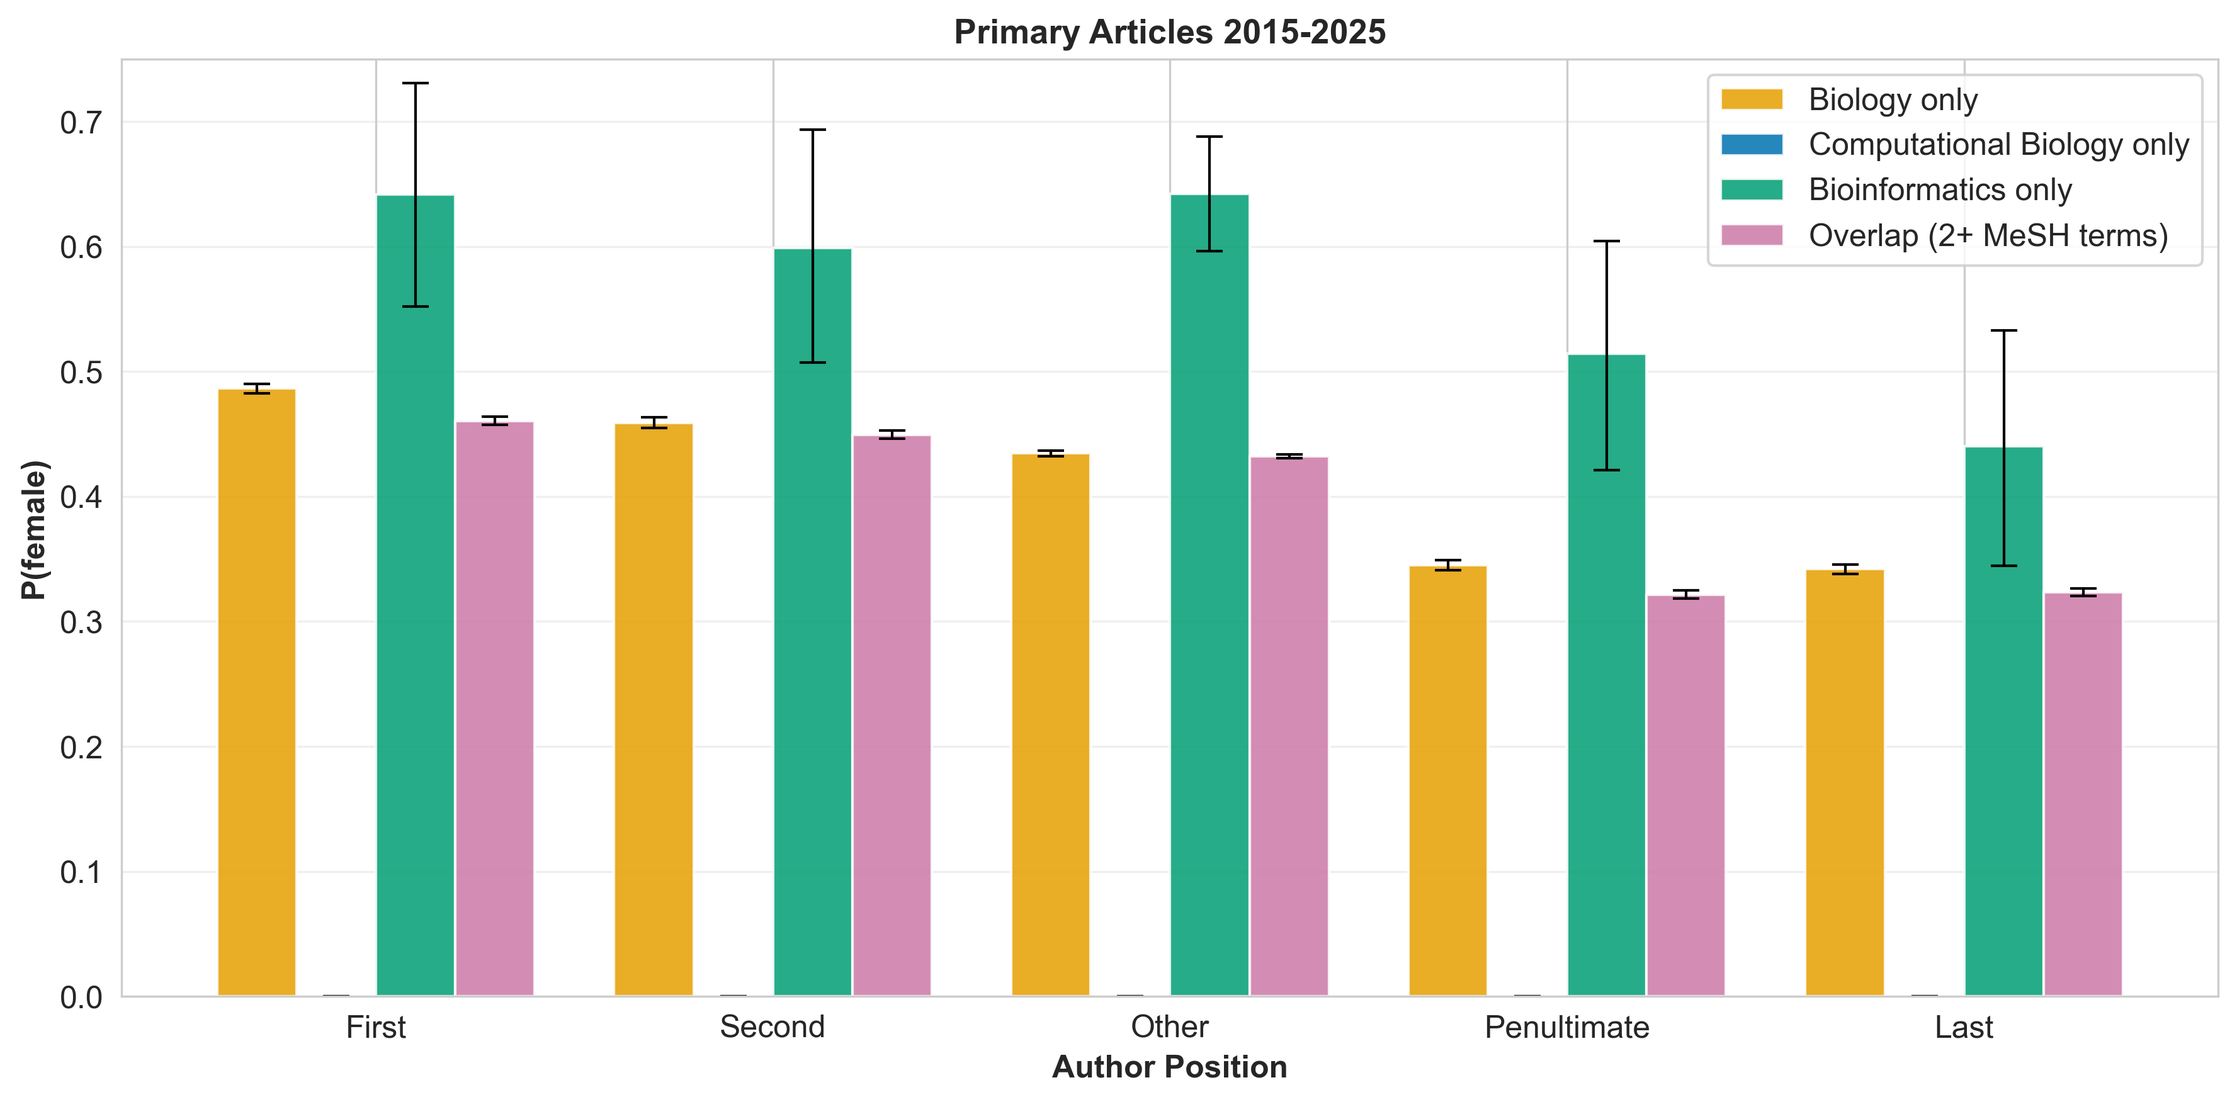
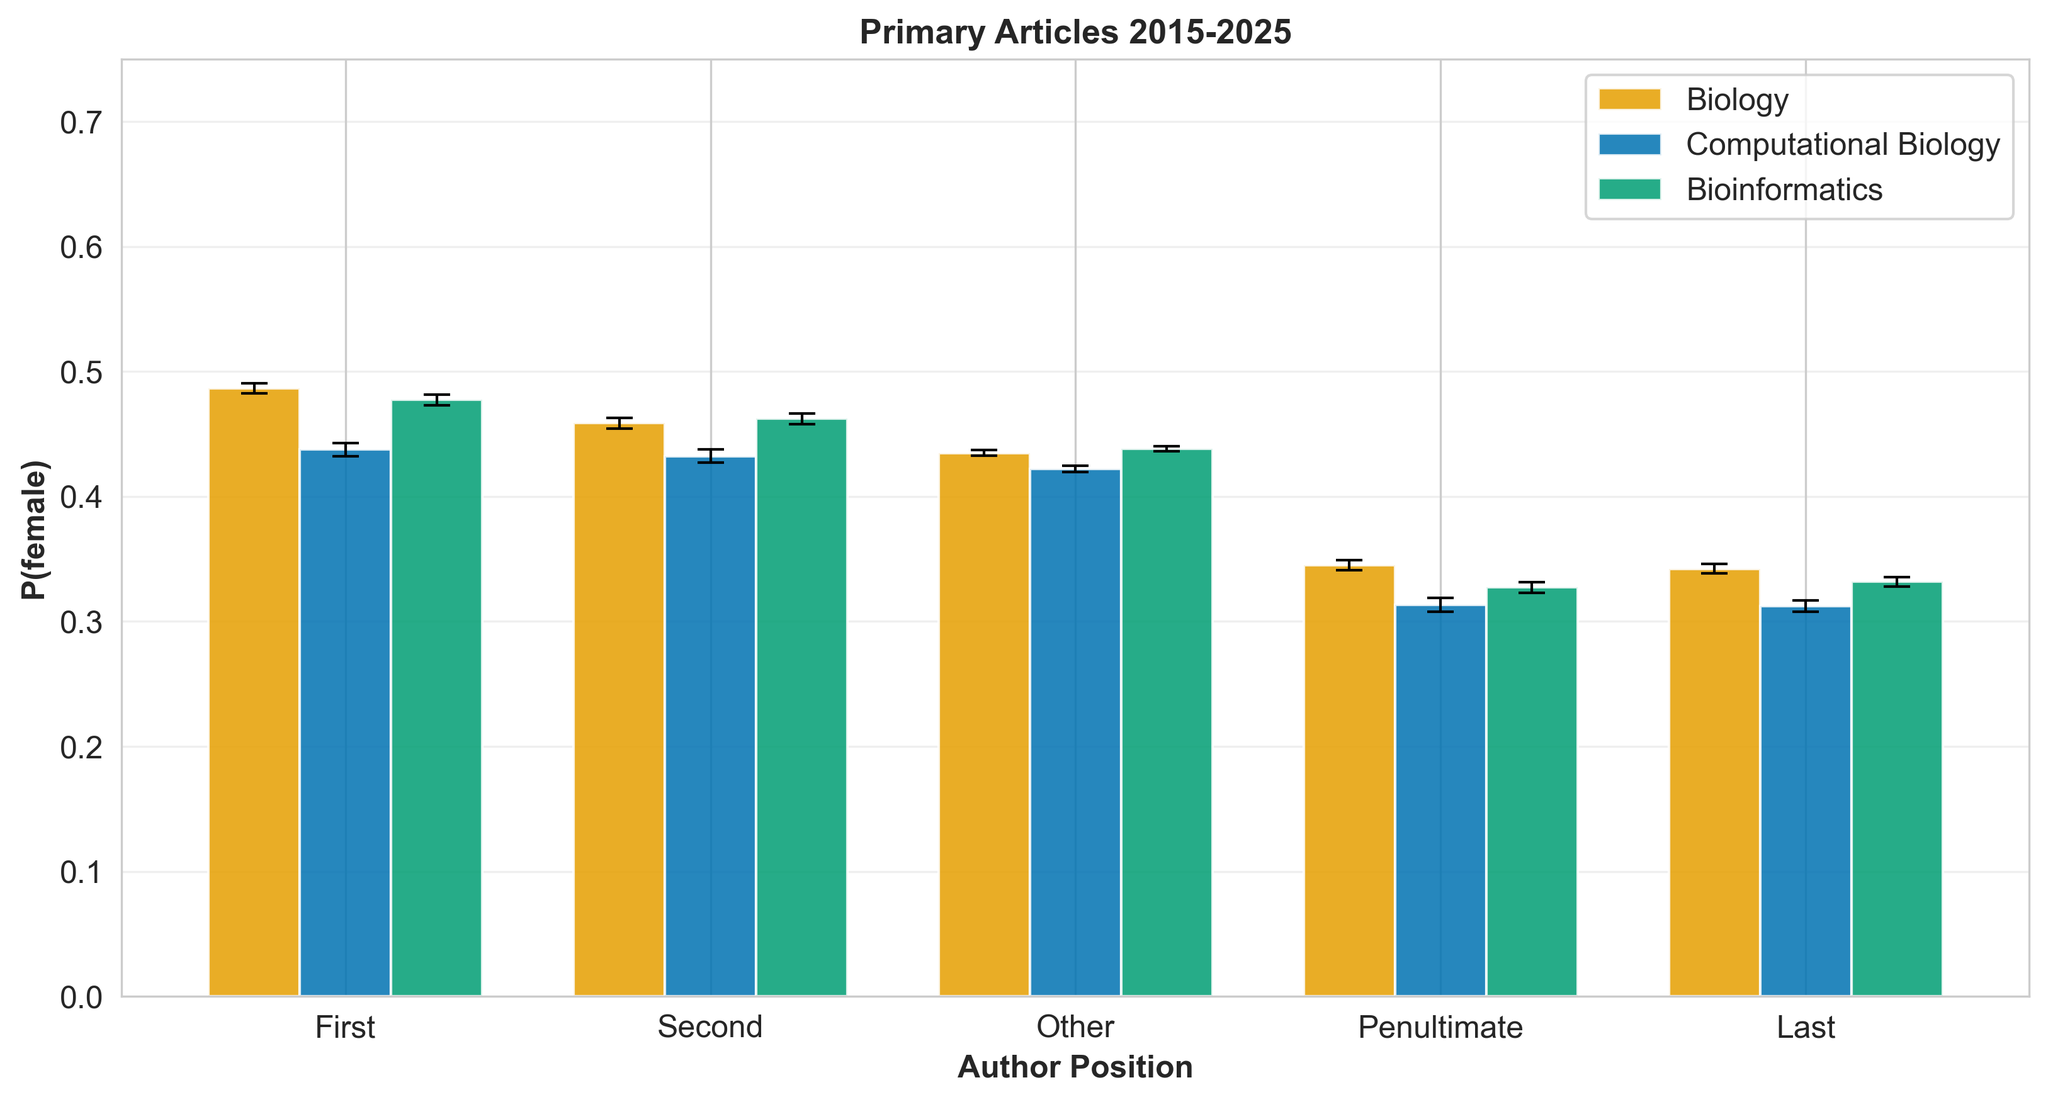
Restructure blog post for clarity: remove overlap stratifications, focus on three main categories
Changes:
- Update Figure 1A to show only three categories (Biology, Computational Biology,
  Bioinformatics), removing the Overlap bars
- Adjust bar positioning and sizing for cleaner three-category layout
- Simplify key observations to focus on the three main search terms
- Remove detailed 'Search Overlap Reveals Dataset Structure' section with separate
  stratification table
- Add brief methodological note in 'How I Did This' section explaining that the three
  search terms have overlap (CompBio is 100% subset of Biology) but analyses present
  results for each term independently
- Simplify overall narrative to be less bloated while maintaining transparency

This follows Option 2: One Clean Pass Through - presenting everything through the lens
of three main categories with overlap explained as methodological context.

diff --git a/publications/bwib_deep_dive/figures/figure_1a_position_breakdown.py b/publications/bwib_deep_dive/figures/figure_1a_position_breakdown.py
@@ -24,10 +24,10 @@ from .utils import get_author_data, OUTPUT_DIR, COLORS
 def generate_figure_1a(data):
     """
     Generate Fig 1A: Mean P(female) by author position.
-    Compares Biology, Computational Biology, Bioinformatics, and Overlap (2+ searches).
+    Compares Biology, Computational Biology, and Bioinformatics.
 
     Args:
-        data: DataFrame from get_author_data(show_overlap=True) with columns:
+        data: DataFrame from get_author_data() with columns:
               name, p_female, position, dataset, year, pmid
 
     Returns:
@@ -45,13 +45,11 @@ def generate_figure_1a(data):
     bio_data = {}
     comp_data = {}
     bioinf_data = {}
-    overlap_data = {}
 
     for pos in positions:
         bio_row = results[(results['dataset'] == 'Biology') & (results['position'] == pos)]
         comp_row = results[(results['dataset'] == 'Computational Biology') & (results['position'] == pos)]
         bioinf_row = results[(results['dataset'] == 'Bioinformatics') & (results['position'] == pos)]
-        overlap_row = results[(results['dataset'] == 'Overlap') & (results['position'] == pos)]
 
         if not bio_row.empty:
             bio_data[pos] = {
@@ -74,18 +72,11 @@ def generate_figure_1a(data):
                 'upper': bioinf_row['ci_upper'].values[0]
             }
 
-        if not overlap_row.empty:
-            overlap_data[pos] = {
-                'mean': overlap_row['mean'].values[0],
-                'lower': overlap_row['ci_lower'].values[0],
-                'upper': overlap_row['ci_upper'].values[0]
-            }
-
     # Create figure
-    fig, ax = plt.subplots(figsize=(12, 6))
+    fig, ax = plt.subplots(figsize=(11, 6))
 
     x = np.arange(len(positions))
-    width = 0.20  # Width for four bars per position
+    width = 0.25  # Width for three bars per position
 
     bio_means = [bio_data[p]['mean'] if p in bio_data else 0 for p in positions]
     bio_errors_lower = [bio_data[p]['mean'] - bio_data[p]['lower'] if p in bio_data else 0 for p in positions]
@@ -96,23 +87,17 @@ def generate_figure_1a(data):
     bioinf_means = [bioinf_data[p]['mean'] if p in bioinf_data else 0 for p in positions]
     bioinf_errors_lower = [bioinf_data[p]['mean'] - bioinf_data[p]['lower'] if p in bioinf_data else 0 for p in positions]
     bioinf_errors_upper = [bioinf_data[p]['upper'] - bioinf_data[p]['mean'] if p in bioinf_data else 0 for p in positions]
-    overlap_means = [overlap_data[p]['mean'] if p in overlap_data else 0 for p in positions]
-    overlap_errors_lower = [overlap_data[p]['mean'] - overlap_data[p]['lower'] if p in overlap_data else 0 for p in positions]
-    overlap_errors_upper = [overlap_data[p]['upper'] - overlap_data[p]['mean'] if p in overlap_data else 0 for p in positions]
 
     bio_errs = [bio_errors_lower, bio_errors_upper]
     comp_errs = [comp_errors_lower, comp_errors_upper]
     bioinf_errs = [bioinf_errors_lower, bioinf_errors_upper]
-    overlap_errs = [overlap_errors_lower, overlap_errors_upper]
 
-    ax.bar(x - 1.5*width, bio_means, width, label='Biology only', color=COLORS['Biology'], alpha=0.85,
+    ax.bar(x - width, bio_means, width, label='Biology', color=COLORS['Biology'], alpha=0.85,
            yerr=bio_errs, capsize=5, error_kw={'elinewidth': 1})
-    ax.bar(x - 0.5*width, comp_means, width, label='Computational Biology only', color=COLORS['Computational Biology'], alpha=0.85,
+    ax.bar(x, comp_means, width, label='Computational Biology', color=COLORS['Computational Biology'], alpha=0.85,
            yerr=comp_errs, capsize=5, error_kw={'elinewidth': 1})
-    ax.bar(x + 0.5*width, bioinf_means, width, label='Bioinformatics only', color=COLORS['Bioinformatics'], alpha=0.85,
+    ax.bar(x + width, bioinf_means, width, label='Bioinformatics', color=COLORS['Bioinformatics'], alpha=0.85,
            yerr=bioinf_errs, capsize=5, error_kw={'elinewidth': 1})
-    ax.bar(x + 1.5*width, overlap_means, width, label='Overlap (2+ MeSH terms)', color=COLORS['Overlap'], alpha=0.85,
-           yerr=overlap_errs, capsize=5, error_kw={'elinewidth': 1})
 
     ax.set_xlabel('Author Position', fontsize=12, fontweight='bold')
     ax.set_ylabel('P(female)', fontsize=12, fontweight='bold')
@@ -139,7 +124,7 @@ def main():
     print("=" * 70 + "\n")
 
     print("Loading author data from database...")
-    data = get_author_data(start_year=2015, end_year=2025, show_overlap=True)
+    data = get_author_data(start_year=2015, end_year=2025)
     print(f"✓ Loaded {len(data):,} author records\n")
 
     print("GENERATING FIGURE")

diff --git a/publications/bwib_deep_dive/BWIB_Deep_Dive_Blog_Post.md b/publications/bwib_deep_dive/BWIB_Deep_Dive_Blog_Post.md
@@ -38,7 +38,7 @@ To assess progress, I replicated the Bonham & Stefan analysis, using their same 
 
 ![Fig1A: P(female) by author position](./Fig1A_position_breakdown.png)
 
-This figure directly replicates Bonham & Stefan's Fig 1A, but expands the analysis to include three PubMed search terms: **Biology**, **Computational Biology**, and **Bioinformatics**. Additionally, it introduces a fourth category, **Overlap**, which identifies papers appearing in multiple searches, revealing the dataset structure and avoiding double-counting when papers match multiple search terms.
+This figure directly replicates Bonham & Stefan's Fig 1A, but expands the analysis to include three PubMed search terms: **Biology**, **Computational Biology**, and **Bioinformatics**. These represent different scopes of the literature, from general biology to specialized computational and bioinformatic approaches.
 
 **Table 1. Proportion of Female Authors (2015–2025)**
 
@@ -62,42 +62,17 @@ This figure directly replicates Bonham & Stefan's Fig 1A, but expands the analys
 
 **Key observations:**
 
-- **A critical discovery:** When analyzing the PubMed search term overlap (see Table: Search Overlap below), we found that **Computational Biology is a 100% subset of Biology**: every paper tagged with "Computational Biology" also appears in the broader "Biology" search. This is why the "Computational Biology only" bars appear as zero everywhere in Figure 1A. There are literally zero papers that appear exclusively in the Computational Biology search. This means we're not analyzing a separate literature; we're analyzing a specialized subset of the biology literature.
+- **Computational biology shows lower female representation than the broader biology literature** across all author positions, with gaps ranging from 3–5 percentage points. This gap has narrowed somewhat from 2017 (when it was 4–6 percentage points), but it persists.
 
-- **Computational biology papers do show lower female representation than biology papers** across all author positions, but this reflects the composition of papers in the intersection, not a separate discipline. The gap has narrowed somewhat (from 4–6 percentage points in 2017 to 3–5 percentage points in 2025), but it persists.
+- **Bioinformatics shows female representation between biology and computational biology.** This intermediate pattern suggests bioinformatics may have different authorship structures or be more integrated with traditional biology.
 
-- **Bioinformatics shows a distinct pattern.** Female representation in bioinformatics is closer to biology than to computational biology, suggesting bioinformatics may have different authorship patterns or be more integrated with traditional biology research. Notably, bioinformatics is not a complete subset of any other search term, indicating a more independent literature.
+- **Position matters everywhere.** Across all three search terms, female representation drops sharply at senior positions (penultimate and last author), suggesting that women remain underrepresented in senior leadership roles.
 
 ### Figure 1B: Temporal Trend in Female Authorship
 
 ![Fig1B: P(female) over time](./Fig1B_temporal_trend.png)
 
 This replicates Bonham & Stefan's Fig 1B, showing how female representation has changed year-by-year. The improvement is evident: biology, computational biology, and bioinformatics all show upward trends from 2015 to 2025.
-
-### Table: Search Overlap Reveals Dataset Structure
-
-A critical question in analyzing these three search terms is: how do these papers overlap? Are we analyzing three distinct literatures, or are some papers appearing in multiple searches?
-
-**Table. PubMed Search Term Overlap (2015-2025)**
-
-| Search Term Combination | Papers | Percent | P(female) First Author | P(female) Last Author |
-| --- | --- | --- | --- | --- |
-| Biology only | 107,054 | 39.3% | 0.486 | 0.342 |
-| Computational Biology only | 0 | 0.0% | N/A | N/A |
-| Biology + Computational Biology | 3 | 0.0% | 0.333 | 0.667 |
-| Bioinformatics only | 275 | 0.1% | 0.643 | 0.441 |
-| Biology + Bioinformatics | 98,513 | 36.2% | 0.477 | 0.332 |
-| Computational Biology + Bioinformatics | 0 | 0.0% | N/A | N/A |
-| All three searches | 66,633 | 24.5% | 0.437 | 0.312 |
-| **TOTAL** | **272,478** | **100.0%** | N/A | N/A |
-
-**What this tells us:**
-
-1. **Computational Biology is entirely contained within Biology.** There are zero papers tagged with "Computational Biology" alone. Of 272,478 unique papers, none are labeled exclusively as Computational Biology. Instead, CompBio papers fall into one of two categories: (a) appearing with all three search terms (66,633 papers), or (b) appearing with both Biology and Computational Biology but not Bioinformatics (3 papers, <0.1%). **This is a fundamental insight:** when we analyze "Computational Biology," we're analyzing a specialized subset of the broader biology literature, not a separate field.
-
-2. **Bioinformatics is distinct but overlapping.** Only 275 papers (0.1%) are tagged with bioinformatics alone, while 98,513 papers (36.2%) appear in both Biology and Bioinformatics. Bioinformatics has much less overlap with Computational Biology: zero papers appear in both CompBio and Bioinformatics without also appearing in Biology.
-
-3. **These overlaps explain the gender patterns.** Computational Biology shows slightly lower female representation than Biology overall, but papers that appear in all three searches (the "All three searches" category at 24.5% of the dataset) show the lowest female representation (43.7% first author, 31.2% last author). This suggests that the most interdisciplinary work (spanning all three domains) may have different gender dynamics.
 
 ### Figure 1C: The Female PI Effect
 
@@ -304,7 +279,11 @@ I analyzed **272,478 unique PubMed publications** (2015–2025) from three PubMe
 - Computational Biology (`"Computational Biology"[Majr]`)
 - Bioinformatics (`bioinformatics[Mesh]`)
 
-(Note: Unlike Bonham & Stefan, who analyzed both PubMed and arXiv, I focused on PubMed due to API limitations. Also note: MeSH indexing in my dataset transitioned from human indexers to the automated MTIX algorithm in April 2022, introducing a potential methodological discontinuity discussed in the limitations section.) I identified **977,731 unique authors** and inferred gender using a hybrid two-tier approach:
+(Note: Unlike Bonham & Stefan, who analyzed both PubMed and arXiv, I focused on PubMed due to API limitations. Also note: MeSH indexing in my dataset transitioned from human indexers to the automated MTIX algorithm in April 2022, introducing a potential methodological discontinuity discussed in the limitations section.)
+
+**On search term overlap:** These three search terms have substantial overlap. Computational Biology is a 100% subset of the broader Biology search (every CompBio paper also appears in Biology), while Bioinformatics is more independent but still shares significant overlap with Biology. This overlap is expected: we're analyzing different scopes and perspectives on the same underlying literature, not three separate fields. The analyses presented above report results for each search term independently, which means some papers are counted in multiple categories.
+
+I identified **977,731 unique authors** and inferred gender using a hybrid two-tier approach:
 
 1. **Offline gender database** (gender-guesser, ~45k names)
 2. **LLM-based classification** (Groq llama-3.1-8b-instant) for remaining unknowns using batch processing with advanced JSON parsing strategies

diff --git a/publications/bwib_deep_dive/Table2_pi_effect_by_search_overlap.md b/publications/bwib_deep_dive/Table2_pi_effect_by_search_overlap.md
@@ -3,26 +3,26 @@
 | Search Category | Position | PI Gender | Mean | 95% CI Lower | 95% CI Upper | N |
 |---------|----------|-----------|------|-------------|-------------|---------|
 | Biology | first | Male | 0.459 | 0.453 | 0.464 | 26,872 |
-| Biology | first | Female | 0.593 | 0.585 | 0.601 | 13,977 |
-| Biology | second | Male | 0.433 | 0.427 | 0.439 | 25,056 |
-| Biology | second | Female | 0.536 | 0.528 | 0.545 | 13,084 |
+| Biology | first | Female | 0.593 | 0.584 | 0.601 | 13,977 |
+| Biology | second | Male | 0.433 | 0.427 | 0.438 | 25,056 |
+| Biology | second | Female | 0.536 | 0.528 | 0.544 | 13,084 |
 | Biology | other | Male | 0.417 | 0.414 | 0.420 | 94,657 |
-| Biology | other | Female | 0.504 | 0.500 | 0.509 | 45,640 |
-| Biology | penultimate | Male | 0.319 | 0.312 | 0.324 | 22,568 |
-| Biology | penultimate | Female | 0.421 | 0.411 | 0.430 | 11,777 |
-| Bioinformatics | first | Male | 0.609 | 0.470 | 0.744 | 42 |
-| Bioinformatics | first | Female | 0.698 | 0.548 | 0.855 | 31 |
-| Bioinformatics | second | Male | 0.575 | 0.427 | 0.726 | 41 |
-| Bioinformatics | second | Female | 0.616 | 0.455 | 0.765 | 33 |
-| Bioinformatics | other | Male | 0.607 | 0.540 | 0.675 | 177 |
-| Bioinformatics | other | Female | 0.770 | 0.702 | 0.839 | 124 |
-| Bioinformatics | penultimate | Male | 0.479 | 0.333 | 0.635 | 39 |
-| Bioinformatics | penultimate | Female | 0.562 | 0.412 | 0.735 | 34 |
+| Biology | other | Female | 0.505 | 0.500 | 0.509 | 45,640 |
+| Biology | penultimate | Male | 0.318 | 0.312 | 0.325 | 22,568 |
+| Biology | penultimate | Female | 0.420 | 0.411 | 0.430 | 11,777 |
+| Bioinformatics | first | Male | 0.607 | 0.458 | 0.750 | 42 |
+| Bioinformatics | first | Female | 0.703 | 0.548 | 0.863 | 31 |
+| Bioinformatics | second | Male | 0.573 | 0.415 | 0.720 | 41 |
+| Bioinformatics | second | Female | 0.621 | 0.462 | 0.780 | 33 |
+| Bioinformatics | other | Male | 0.608 | 0.537 | 0.674 | 177 |
+| Bioinformatics | other | Female | 0.769 | 0.694 | 0.839 | 124 |
+| Bioinformatics | penultimate | Male | 0.477 | 0.327 | 0.635 | 39 |
+| Bioinformatics | penultimate | Female | 0.559 | 0.412 | 0.735 | 34 |
 | Overlap | first | Male | 0.437 | 0.432 | 0.441 | 44,748 |
-| Overlap | first | Female | 0.545 | 0.539 | 0.551 | 21,240 |
-| Overlap | second | Male | 0.431 | 0.427 | 0.436 | 42,061 |
+| Overlap | first | Female | 0.545 | 0.538 | 0.552 | 21,240 |
+| Overlap | second | Male | 0.431 | 0.426 | 0.436 | 42,061 |
 | Overlap | second | Female | 0.513 | 0.507 | 0.520 | 20,192 |
 | Overlap | other | Male | 0.419 | 0.417 | 0.421 | 222,177 |
 | Overlap | other | Female | 0.481 | 0.478 | 0.484 | 107,165 |
 | Overlap | penultimate | Male | 0.307 | 0.303 | 0.312 | 39,323 |
-| Overlap | penultimate | Female | 0.365 | 0.359 | 0.372 | 19,353 |
+| Overlap | penultimate | Female | 0.366 | 0.359 | 0.372 | 19,353 |

diff --git a/publications/bwib_deep_dive/Table2_female_authors_with_female_pi.md b/publications/bwib_deep_dive/Table2_female_authors_with_female_pi.md
@@ -3,26 +3,26 @@
 | Dataset | Position | PI Gender | Mean | 95% CI Lower | 95% CI Upper |
 |---------|----------|-----------|------|-------------|-------------|
 | Biology | first | Male | 0.459 | 0.453 | 0.465 |
-| Biology | first | Female | 0.593 | 0.585 | 0.600 |
-| Biology | second | Male | 0.433 | 0.427 | 0.438 |
-| Biology | second | Female | 0.536 | 0.528 | 0.544 |
+| Biology | first | Female | 0.593 | 0.585 | 0.601 |
+| Biology | second | Male | 0.433 | 0.427 | 0.439 |
+| Biology | second | Female | 0.536 | 0.528 | 0.545 |
 | Biology | other | Male | 0.417 | 0.414 | 0.420 |
 | Biology | other | Female | 0.505 | 0.500 | 0.509 |
-| Biology | penultimate | Male | 0.318 | 0.312 | 0.325 |
+| Biology | penultimate | Male | 0.318 | 0.312 | 0.324 |
 | Biology | penultimate | Female | 0.421 | 0.412 | 0.429 |
 | Computational Biology | first | Male | 0.410 | 0.404 | 0.417 |
 | Computational Biology | first | Female | 0.525 | 0.515 | 0.535 |
-| Computational Biology | second | Male | 0.413 | 0.406 | 0.420 |
-| Computational Biology | second | Female | 0.494 | 0.484 | 0.505 |
-| Computational Biology | other | Male | 0.409 | 0.406 | 0.412 |
+| Computational Biology | second | Male | 0.413 | 0.406 | 0.421 |
+| Computational Biology | second | Female | 0.494 | 0.483 | 0.505 |
+| Computational Biology | other | Male | 0.409 | 0.406 | 0.413 |
 | Computational Biology | other | Female | 0.471 | 0.466 | 0.476 |
 | Computational Biology | penultimate | Male | 0.298 | 0.291 | 0.305 |
-| Computational Biology | penultimate | Female | 0.362 | 0.350 | 0.374 |
+| Computational Biology | penultimate | Female | 0.362 | 0.351 | 0.373 |
 | Bioinformatics | first | Male | 0.456 | 0.450 | 0.462 |
 | Bioinformatics | first | Female | 0.559 | 0.550 | 0.567 |
 | Bioinformatics | second | Male | 0.445 | 0.439 | 0.451 |
-| Bioinformatics | second | Female | 0.526 | 0.517 | 0.535 |
+| Bioinformatics | second | Female | 0.526 | 0.517 | 0.534 |
 | Bioinformatics | other | Male | 0.426 | 0.423 | 0.428 |
 | Bioinformatics | other | Female | 0.487 | 0.484 | 0.491 |
-| Bioinformatics | penultimate | Male | 0.314 | 0.308 | 0.319 |
-| Bioinformatics | penultimate | Female | 0.369 | 0.361 | 0.377 |
+| Bioinformatics | penultimate | Male | 0.314 | 0.308 | 0.320 |
+| Bioinformatics | penultimate | Female | 0.369 | 0.360 | 0.377 |

diff --git a/publications/bwib_deep_dive/Table1_proportion_female_authors.md b/publications/bwib_deep_dive/Table1_proportion_female_authors.md
@@ -2,18 +2,18 @@
 
 | Dataset | Position | Mean | 95% CI Lower | 95% CI Upper |
 |---------|----------|------|-------------|-------------|
-| Biology | first | 0.486 | 0.482 | 0.490 |
+| Biology | first | 0.487 | 0.483 | 0.491 |
 | Biology | second | 0.459 | 0.454 | 0.463 |
 | Biology | other | 0.435 | 0.432 | 0.437 |
 | Biology | penultimate | 0.345 | 0.341 | 0.349 |
 | Biology | last | 0.342 | 0.338 | 0.346 |
-| Computational Biology | first | 0.437 | 0.432 | 0.443 |
+| Computational Biology | first | 0.437 | 0.433 | 0.442 |
 | Computational Biology | second | 0.432 | 0.427 | 0.437 |
 | Computational Biology | other | 0.422 | 0.420 | 0.425 |
-| Computational Biology | penultimate | 0.313 | 0.309 | 0.318 |
+| Computational Biology | penultimate | 0.313 | 0.308 | 0.318 |
 | Computational Biology | last | 0.312 | 0.308 | 0.317 |
-| Bioinformatics | first | 0.477 | 0.474 | 0.482 |
-| Bioinformatics | second | 0.462 | 0.458 | 0.466 |
-| Bioinformatics | other | 0.438 | 0.437 | 0.440 |
+| Bioinformatics | first | 0.478 | 0.473 | 0.482 |
+| Bioinformatics | second | 0.462 | 0.458 | 0.467 |
+| Bioinformatics | other | 0.438 | 0.436 | 0.440 |
 | Bioinformatics | penultimate | 0.327 | 0.323 | 0.331 |
 | Bioinformatics | last | 0.332 | 0.328 | 0.336 |
